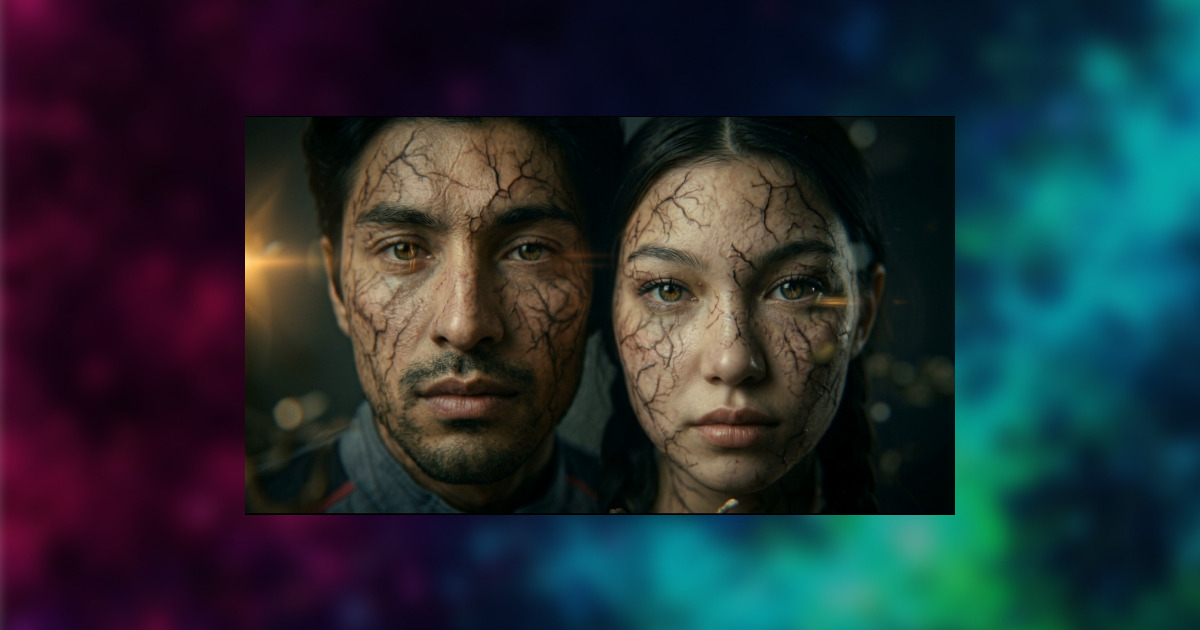
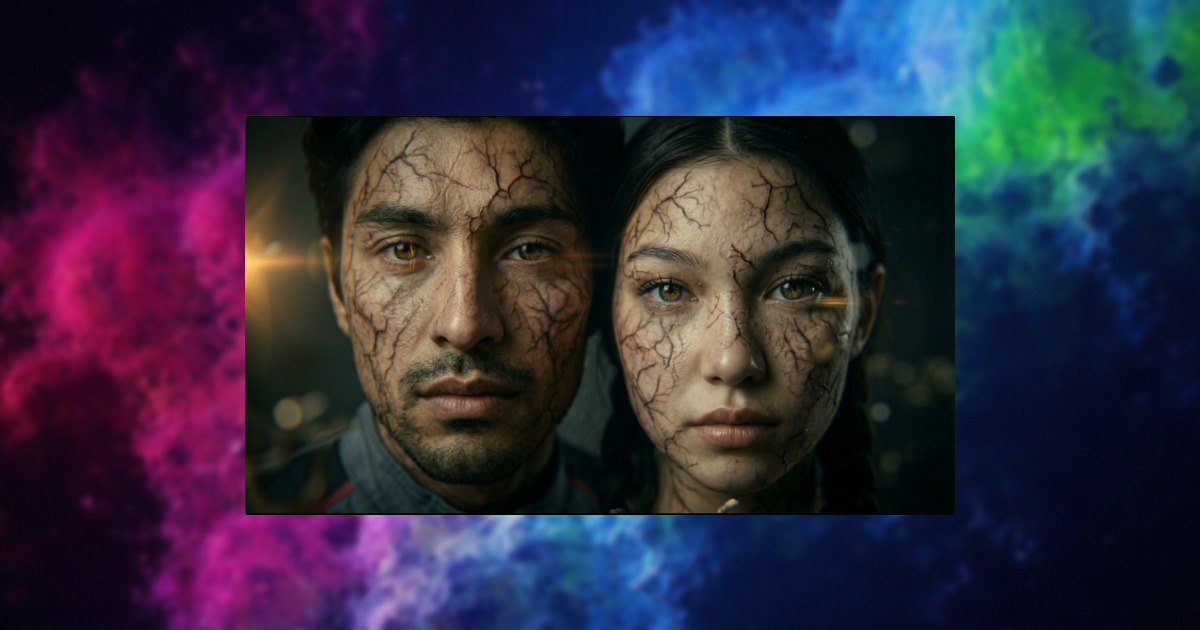
update og image bg

diff --git a/src/app/(pages)/support-us/page.jsx b/src/app/(pages)/support-us/page.jsx
@@ -8,10 +8,9 @@ import { fadeUp } from "../../utils/animations";
 
 export async function generateMetadata() {
   const base = getBaseUrl();
-  const title = "SUPPORT THE UNIVERSE | SPORE FALL | a Sci-Fi Saga";
-  const description =
-    "A deadly pathogen threatens to overrun the nation city of Lionara. Join the Inner Circle and help us bring this Sci-Fi Saga beyond the screen.";
-  const ogImage = `${base}/api/og?title=${encodeURIComponent("SUPPORT THE UNIVERSE")}&subtitle=${encodeURIComponent("A DEADLY PATHOGEN THREATENS TO OVERRUN THE NATION CITY OF LIONARA. JOIN THE INNER CIRCLE.")}`;
+  const title = "SUPPORT THE UNIVERSE | SPORE FALL";
+  const description = "Back movie making & unlock secret drops.";
+  const ogImage = `${base}/api/og?title=${encodeURIComponent("SUPPORT THE UNIVERSE")}&subtitle=${encodeURIComponent("Back movie making & unlock secret drops. Help us shape the future of Spore Fall.")}`;
 
   return {
     title,

diff --git a/src/app/(pages)/partnerships/page.jsx b/src/app/(pages)/partnerships/page.jsx
@@ -10,10 +10,9 @@ import { fadeUp } from "../../utils/animations";
 
 export async function generateMetadata() {
   const base = getBaseUrl();
-  const title = "PARTNERSHIPS | SPORE FALL | a Sci-Fi Saga";
-  const description =
-    "Collaborate with us in building the next generation of sci-fi narrative experiences. Join the resistance or embrace the evolution of this Sci-Fi Saga.";
-  const ogImage = `${base}/api/og?title=${encodeURIComponent("PARTNERSHIPS")}&subtitle=${encodeURIComponent("COLLABORATE WITH US IN BUILDING THE NEXT GENERATION OF SCI-FI NARRATIVE EXPERIENCES.")}`;
+  const title = "PARTNERSHIPS | SPORE FALL";
+  const description = "Explore partnership opportunities in our IP pipeline and studio engine";
+  const ogImage = `${base}/api/og?title=${encodeURIComponent("PARTNERSHIPS")}&subtitle=${encodeURIComponent("Explore partnership opportunities in our IP pipeline and studio engine")}`;
 
   return {
     title,
